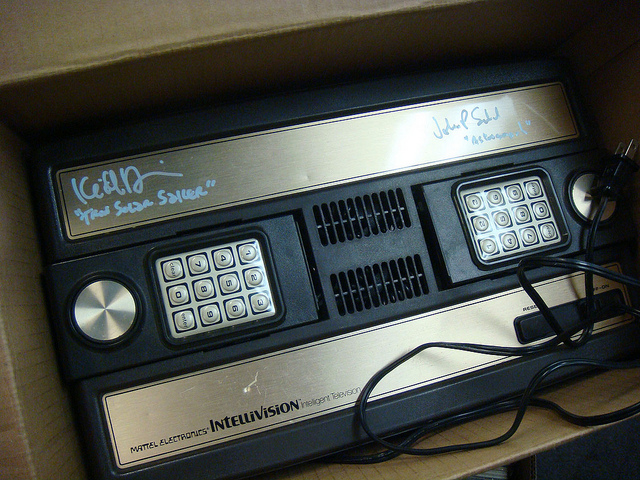
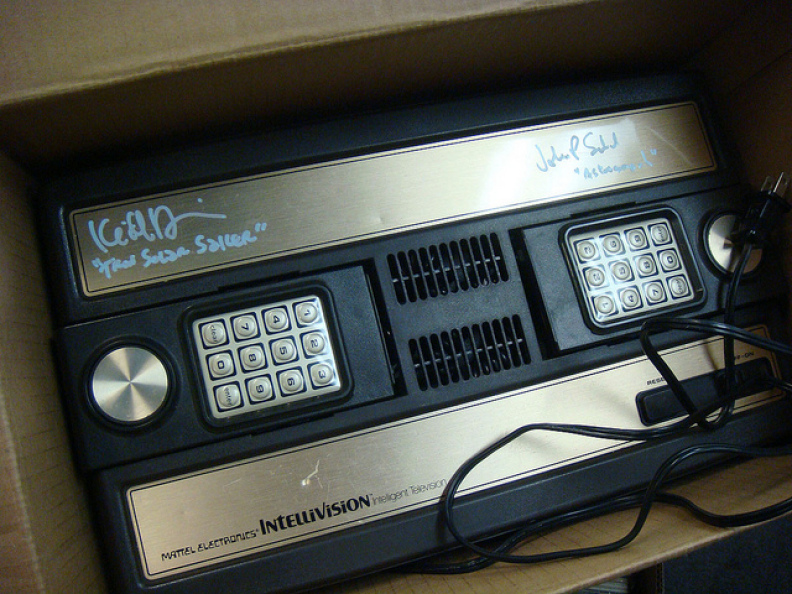
Resized some images, added Ken and Dennis.

diff --git a/slides/03intro/02_programmers.md b/slides/03intro/02_programmers.md
@@ -1,5 +1,5 @@
-!SLIDE
-.notes programmers -- image of neckbeard
+!SLIDE full-page
+![](img/Ken_n_dennis.jpg)
 
 !SLIDE
 .notes why programmers need version control
